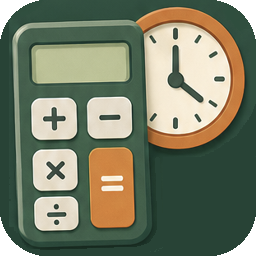
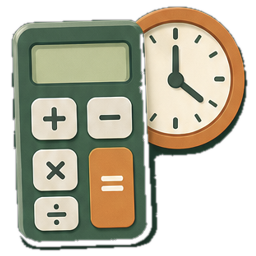
아이콘 배경 투명화 및 브라우저 탭 아이콘을 별도 이미지로 분리
icon.png(제목 옆 인앱 아이콘)에서 초록색 배경을 제거해 계산기·시계
부분만 남기고 투명하게 만들었다.

브라우저 탭에 뜨는 파비콘은 사용자가 새로 준 이미지(favicon.png,
짙은 틸 색 평면 계산기 아이콘)로 따로 분리해 연결했다. 제목 옆
인앱 아이콘은 기존 계산기+시계 이미지를 그대로 쓴다.

Claude-Session: https://claude.ai/code/session_015dsMhEiASmdHzYmnuV1Fj1

diff --git a/index.html b/index.html
@@ -5,7 +5,7 @@
 <meta name="viewport" content="width=device-width, initial-scale=1, maximum-scale=1, user-scalable=no">
 <meta name="theme-color" content="#111318">
 <title>강의 시간 계산기</title>
-<link rel="icon" type="image/png" href="icon.png">
+<link rel="icon" type="image/png" href="favicon.png">
 <link rel="apple-touch-icon" href="apple-touch-icon.png">
 <link rel="stylesheet" href="style.css">
 </head>
